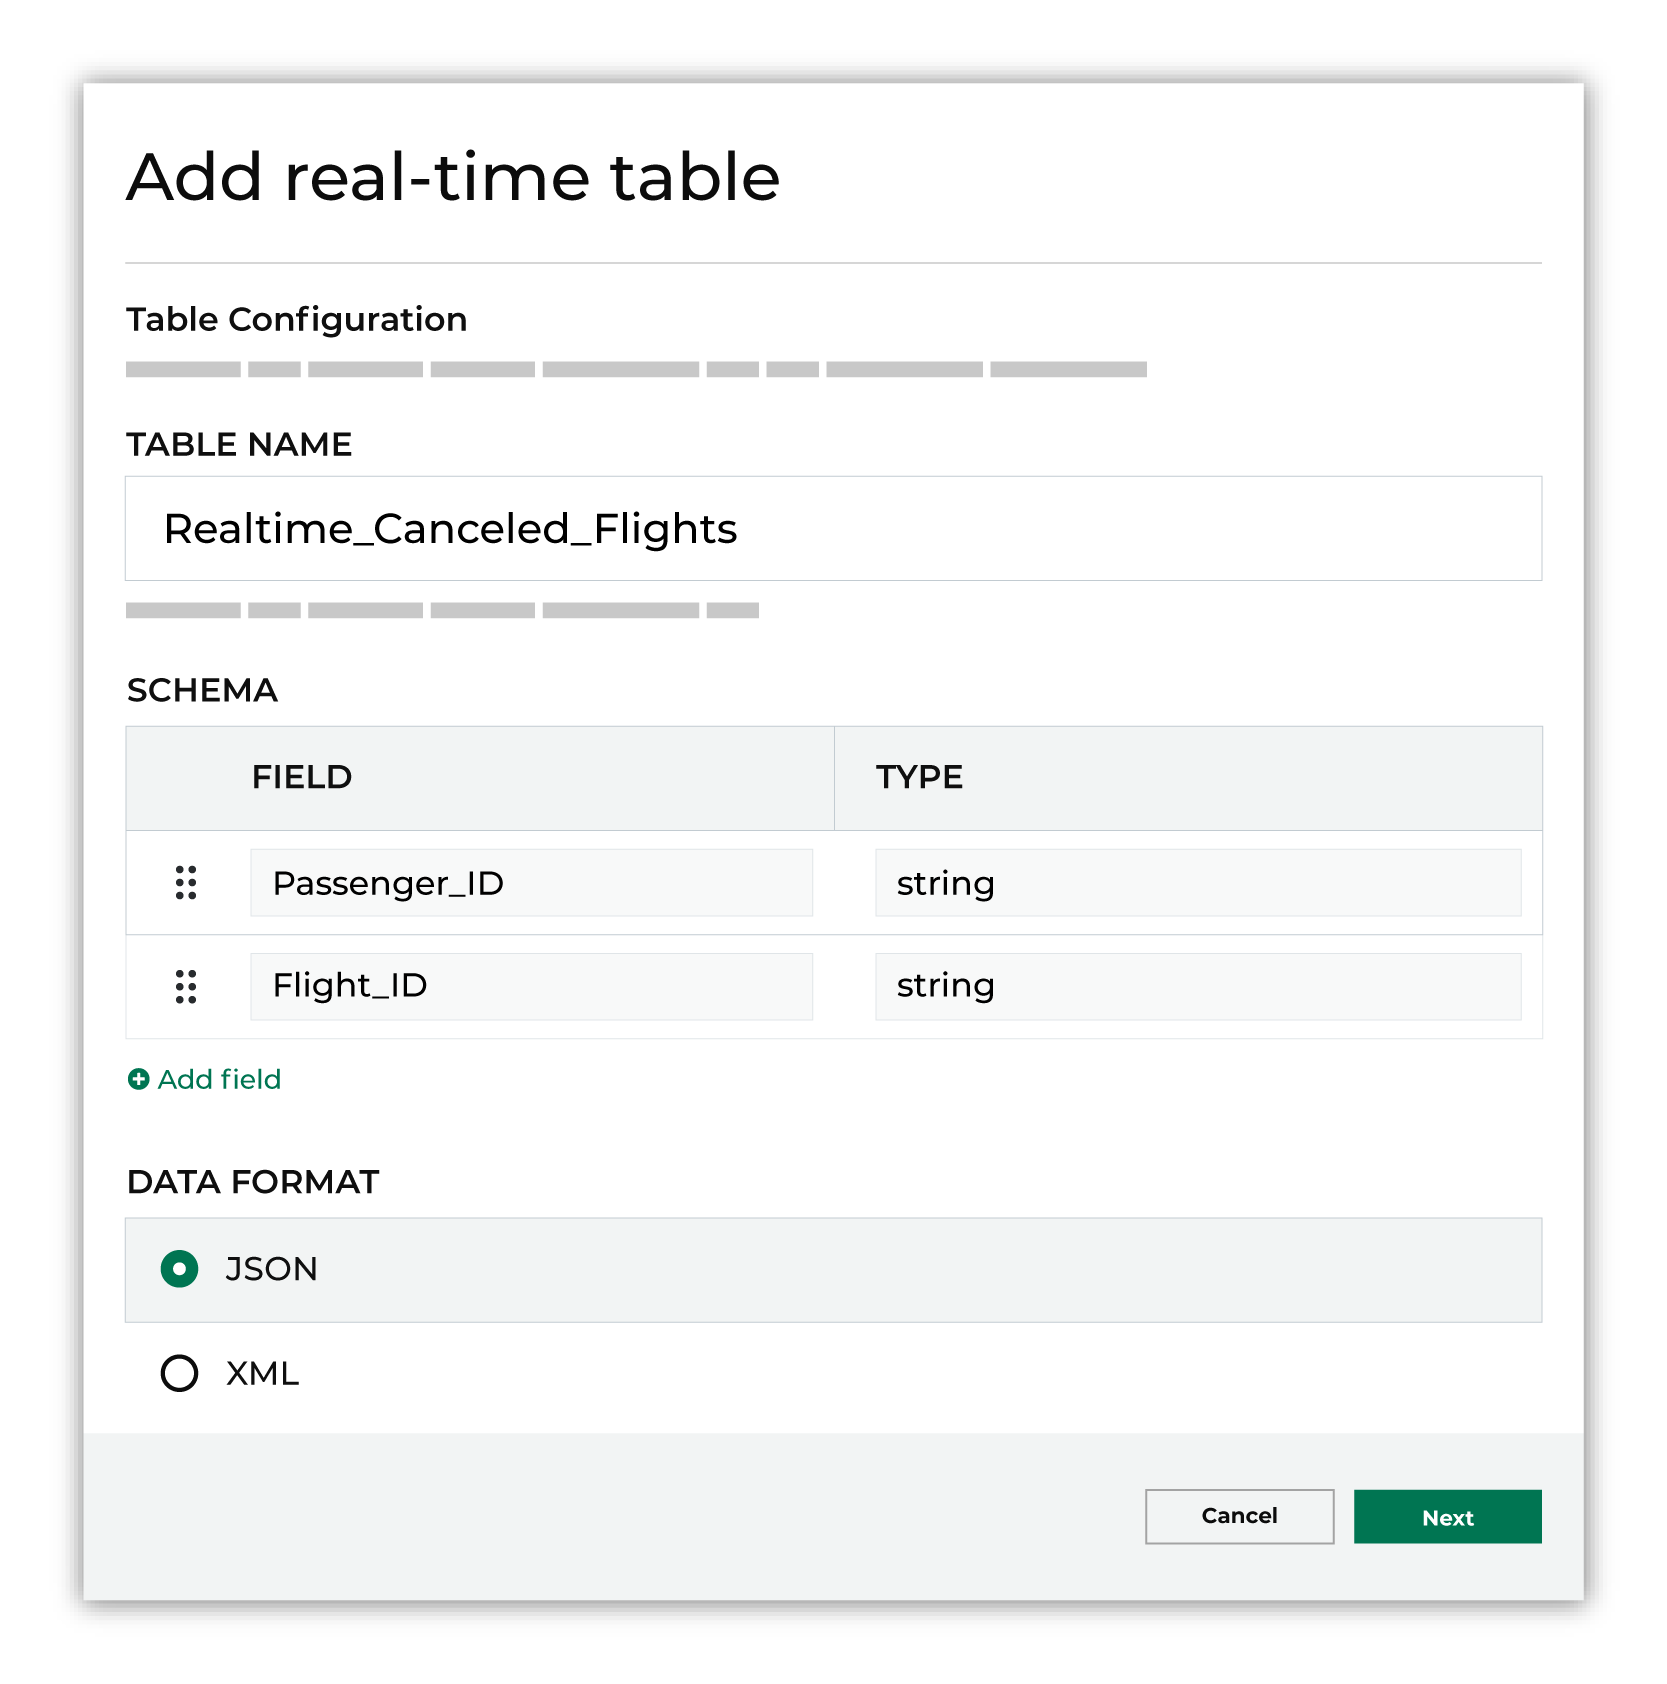
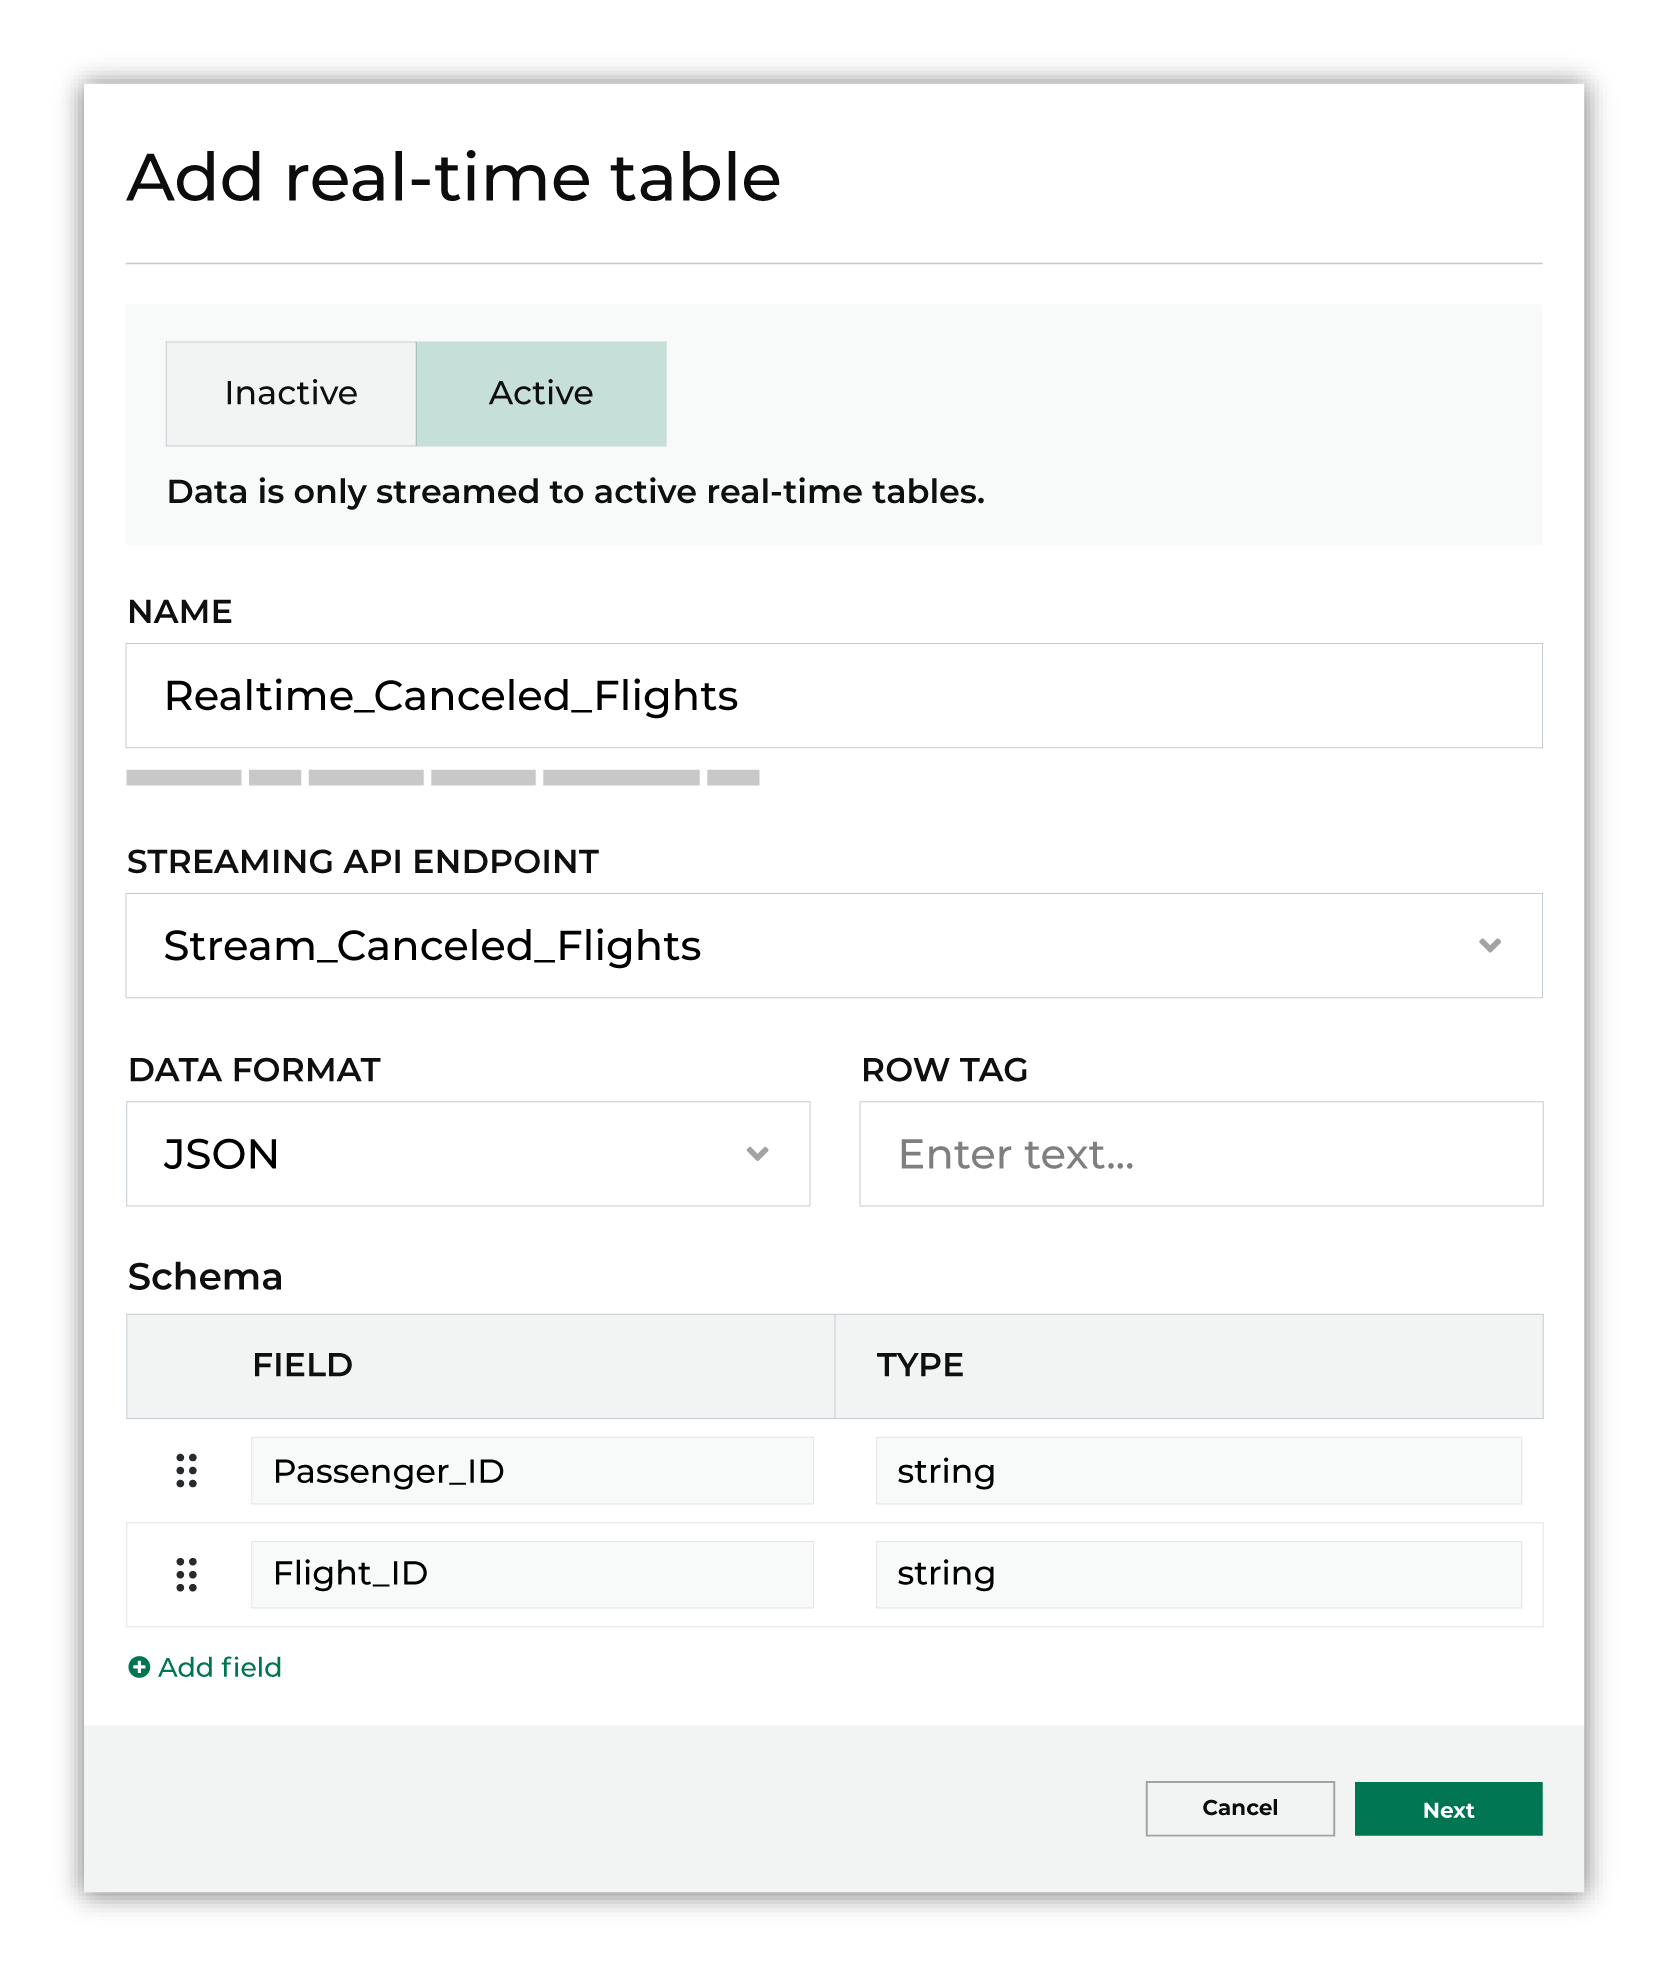
update mockups and steps for real-time tables

diff --git a/amperity_datagrid/source/realtime.rst b/amperity_datagrid/source/realtime.rst
@@ -265,19 +265,27 @@ A real-time table collects data that is streamed to Amperity, and then makes tha
 
        Give the real-time table a name. Use a naming convention that associates the real-time table with its related streaming endpoint, and then identifies the type of data in the real-time table and/or the use case.
 
-       Select the streaming endpoint that will stream data to the real-time table. The streaming endpoint must already exist and be available from the drop-down list.
-
-       Choose the data format for streaming data to the real-time table: "JSON" or "XML". If "XML" is selected a **Row tag** must be specified, which must identify a single row of XML data.
-
-       Define the schema for the real-time table. Each field in the schema must exist in the fields that are streamed to Amperity by the streaming source for this real-time table. The field names in the real-time table must match the fields that are defined for the streamed endpoint. If you have an existing feed configured for streaming purposes, you may refer to the feed for schema details.
-
-       .. note:: If your data has complex types, such as nested JSON, choose **string** as the type. This will allow the real-time table to process the complex object and make it available for querying purposes.
-
        .. image:: ../../images/mockup-databases-table-realtime-add-01.png
           :width: 420 px
           :alt: Batch and streaming layers.
           :align: left
           :class: no-scaled-link
+
+       Select the streaming endpoint that will stream data to the real-time table. The streaming endpoint must already exist and be available from the drop-down list.
+
+       Choose the data format for streaming data to the real-time table: "JSON" or "XML". If "XML" is selected a **Row tag** must be specified, which must identify a single row of XML data.
+
+       .. note:: If your data has complex types, such as nested JSON, choose **string** as the type. This will allow the real-time table to process the complex object and make it available for querying purposes.
+
+       Define the schema for the real-time table. Click **+ Add field** too add a field. Give the field a name and choose a data type. Drag-and-drop the fields into the order you want:
+
+       .. image:: ../../images/mockup-databases-table-realtime-add-02.png
+          :width: 380 px
+          :alt: Drag-and-drop schema elements into the desired order.
+          :align: left
+          :class: no-scaled-link
+
+       Each field in the schema must exist in the fields that are streamed to Amperity by the streaming source for this real-time table. The field names in the real-time table must match the fields that are defined for the streamed endpoint. If you have an existing feed configured for streaming purposes, you may refer to the feed for schema details.
 
        .. note:: The schema for every real-time table will contain two additional fields at the query layer: **received_at** (the time at which data arrived at the streaming endpoint) and **written_at** (the time at which data was written to the real-time table). Use these fields to support filtering for recent data to join with data in batch layer database tables.
 
